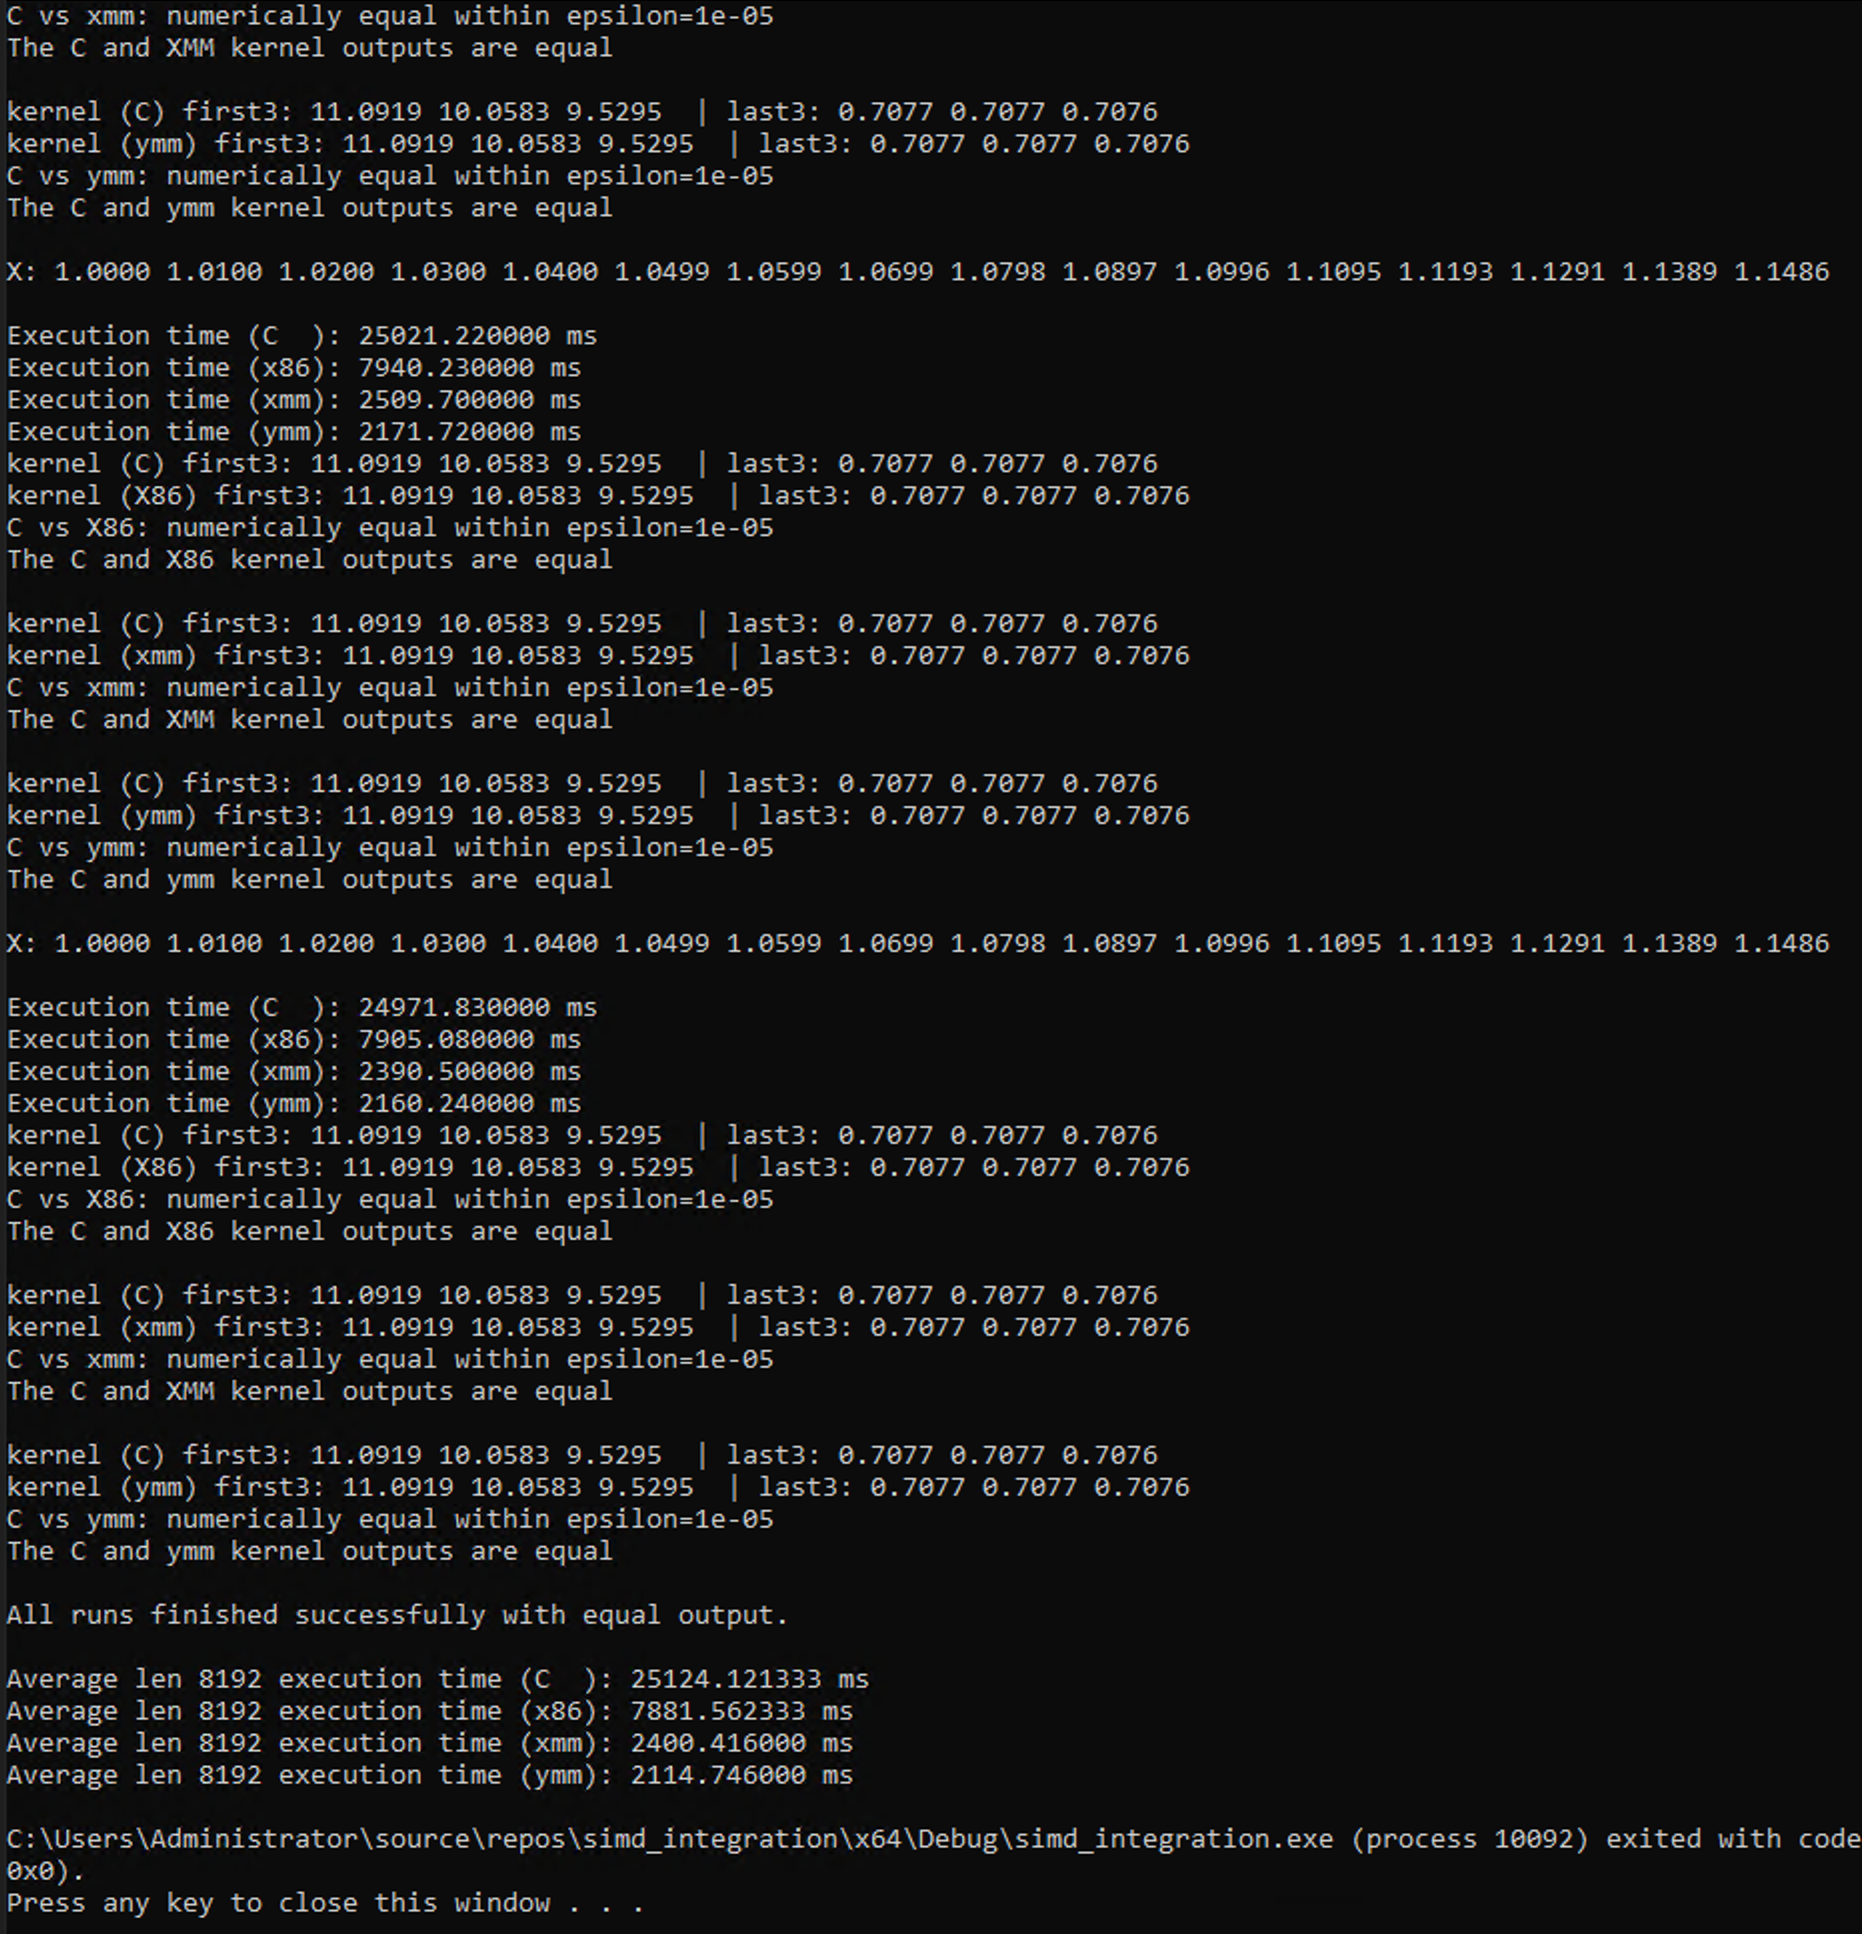
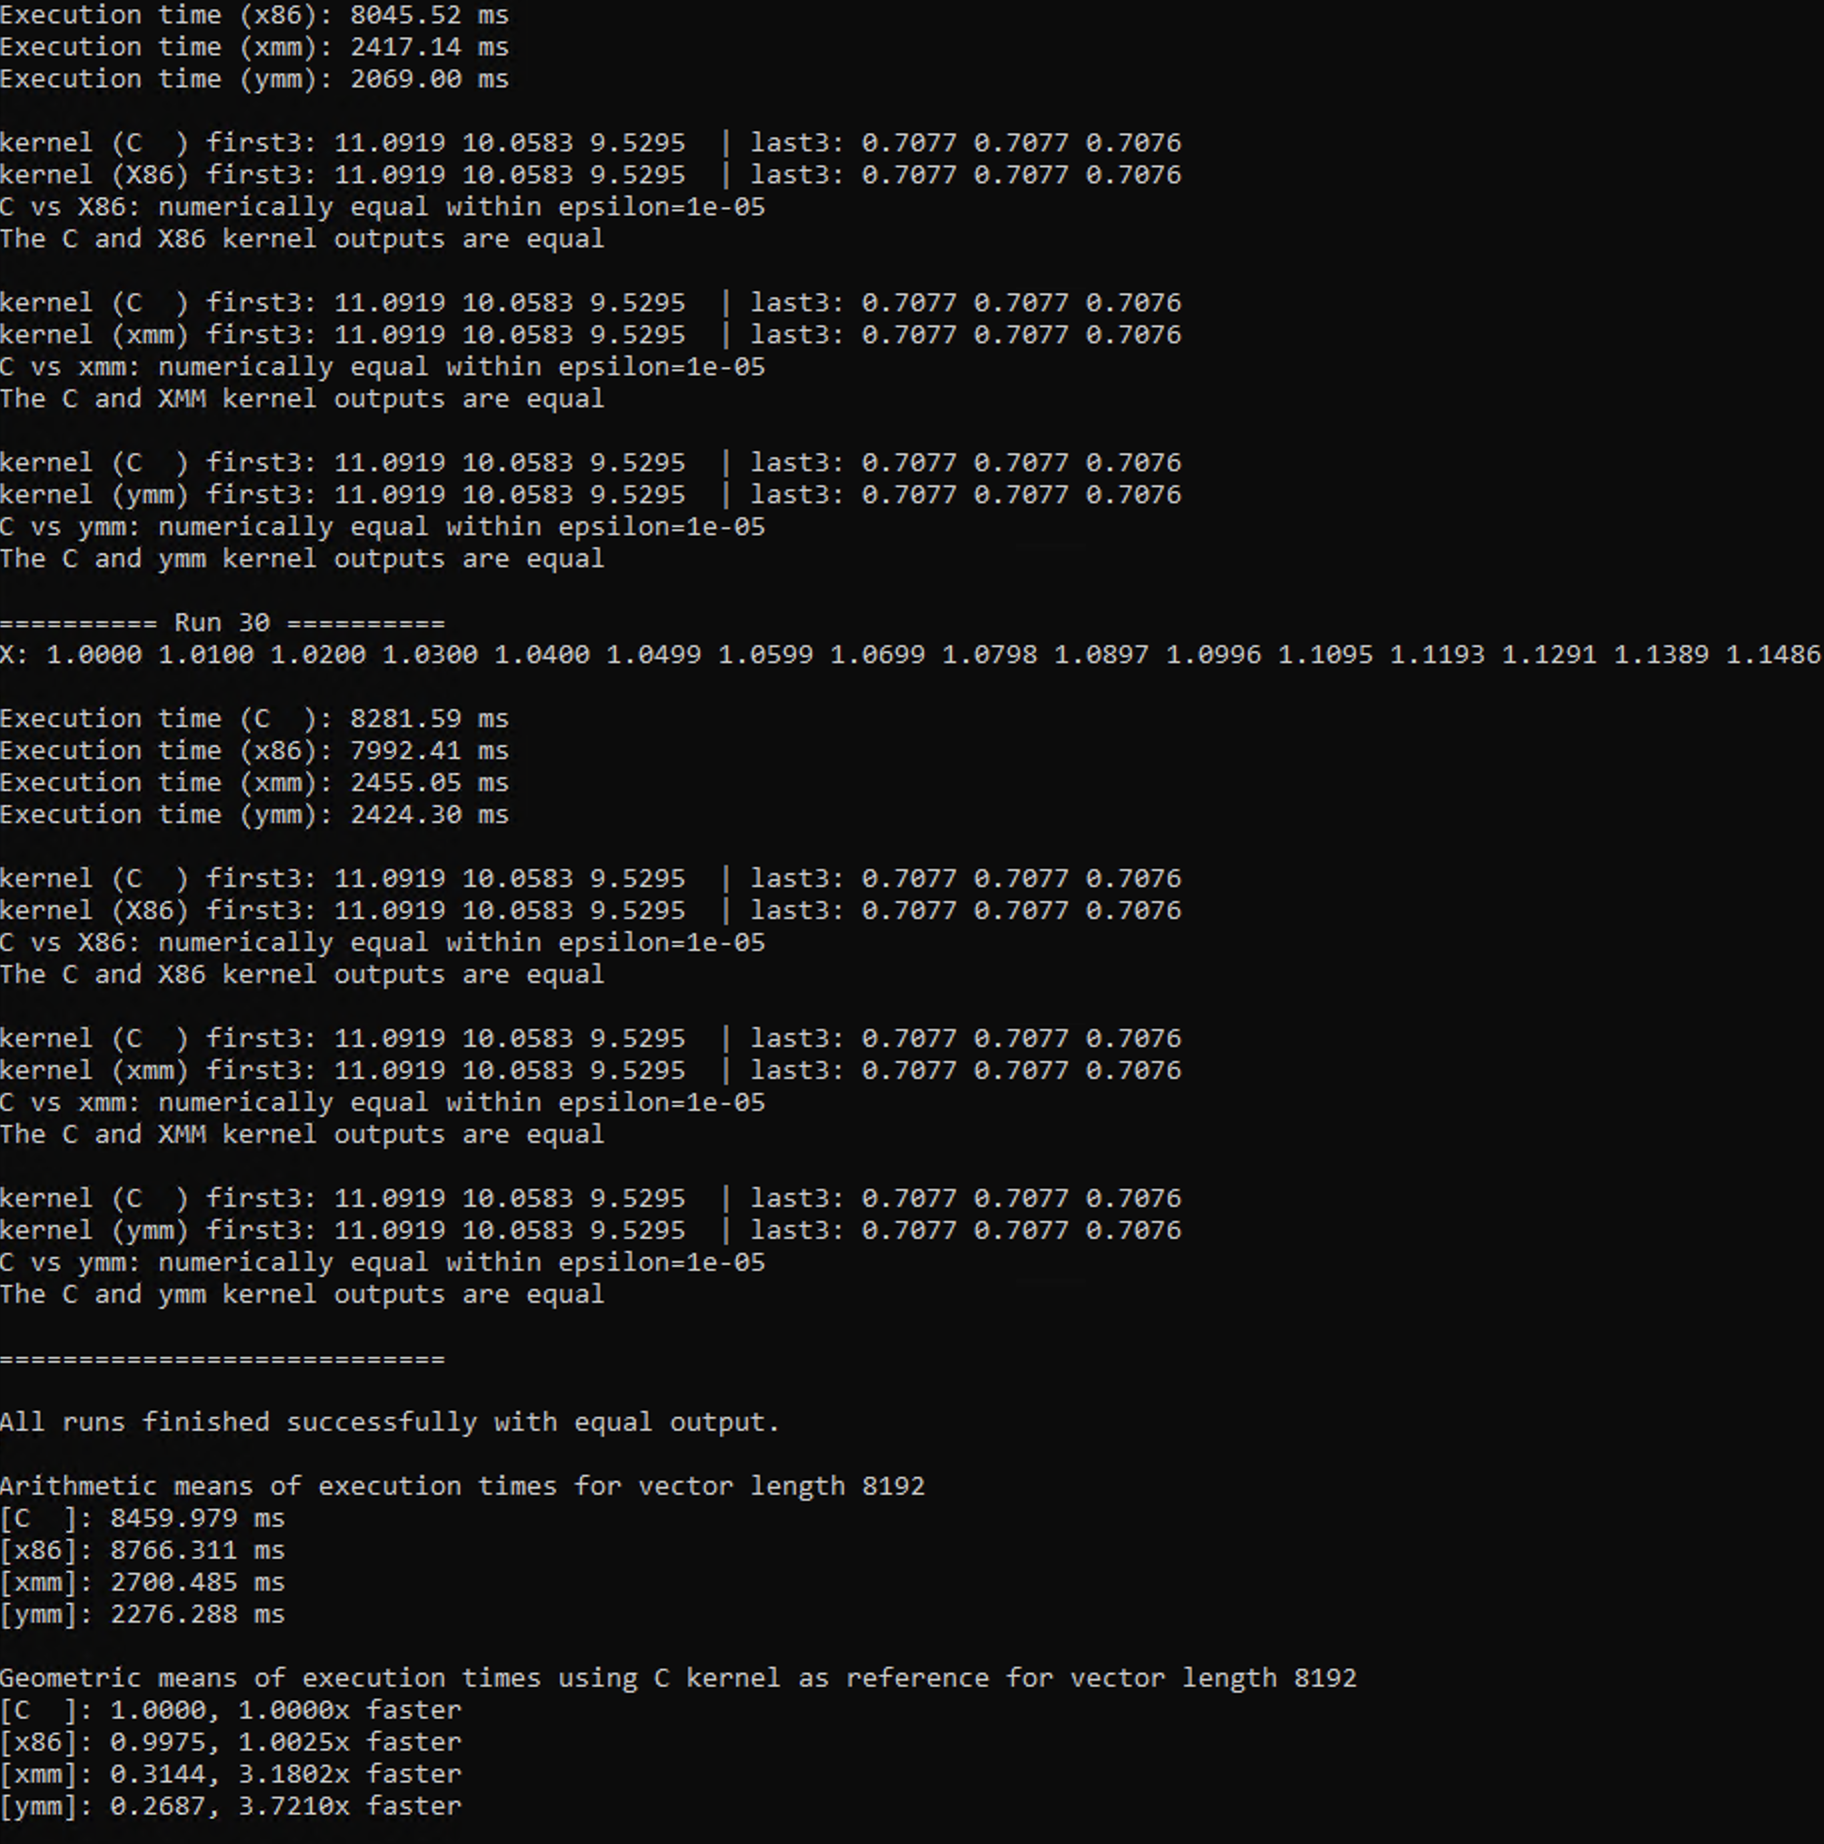
fix

diff --git a/README.md b/README.md
@@ -21,8 +21,8 @@ Each kernel is to perform a `matrix vector product`.matrix-vector product `y = A
      ├── README.md
      ├── simd_integration
      │   ├── asmfunc1.asm          (x86)
-     │   ├── asmfunc3.asm          (SIMD XMM)
-     │   ├── asmfunc4.asm          (SIMD YMM)
+     │   ├── asmfunc3.asm          (SIMD YMM)
+     │   ├── asmfunc2.asm          (SIMD XMM)
      │   ├── main.c (main program)
      │   ├── simd_integration.vcxproj
      │   └── simd_integration.vcxproj.filters
@@ -86,12 +86,23 @@ Matrix sizes: n ∈ {1003,2^10,2^13,2^14} RUN in 30 times
 #define RUNS 10
 ```
 
-| n            |      C (ms) |   x86 (ms) |   XMM (ms) |  YMM (ms) | x86 Speedup VS C | XMM Speedup VS C | YMM Speedup VS C |
-| ------------ | ----------: | ---------: | ---------: | --------: | ---------------: | ---------------: | ---------------: |
-| 2^10 (1024)  |     430.762 |    156.672 |     30.243 |    30.947 |            2.75× |           14.24× |           13.92× |
-| 2^13 (8192)  |  25,124.121 |  7,881.562 |  2,400.416 | 2,114.746 |            3.19× |           10.47× |           11.88× |
-| 2^14 (16384) | 100,416.107 | 31,844.125 | 10,230.686 | 8,981.545 |            3.15× |            9.82× |           11.18× |
-| 1003         |     450.037 |    133.948 |     36.630 |    26.653 |            3.36× |           12.29× |           16.88× |
+## Arithmetic means（ms）
+
+| n            |     C (ms) |   x86 (ms) |   XMM (ms) |  YMM (ms) | x86 Speedup VS C | XMM Speedup VS C | YMM Speedup VS C |
+| ------------ | ---------: | ---------: | ---------: | --------: | ---------------: | ---------------: | ---------------: |
+| 1003         |    483.602 |    145.498 |     21.402 |    23.562 |            3.32× |           22.60× |           20.52× |
+| 2^10 (1024)  |    143.422 |    130.012 |     33.722 |    22.250 |            1.10× |            4.25× |            6.45× |
+| 2^13 (8192)  |  8,456.979 |  7,992.419 |  2,766.485 | 2,726.288 |            1.06× |            3.06× |            3.10× |
+| 2^14 (16384) | 32,720.869 | 31,801.649 | 10,484.669 | 9,095.964 |            1.03× |            3.12× |            3.60× |
+
+## Geometric means（ms）
+
+| n            | C (factor) | x86 (factor) | XMM (factor) | YMM (factor) | x86 Speedup VS C | XMM Speedup VS C | YMM Speedup VS C |
+| ------------ | ---------: | -----------: | -----------: | -----------: | ---------------: | ---------------: | ---------------: |
+| 1003         |     1.0000 |       0.2947 |       0.0730 |       0.0502 |          3.3929× |         13.7018× |         19.9363× |
+| 2^10 (1024)  |     1.0000 |       0.8895 |       0.2128 |       0.1390 |          1.1242× |          4.6992× |          7.1942× |
+| 2^13 (8192)  |     1.0000 |       0.9975 |       0.3144 |       0.2687 |          1.0025× |          3.1802× |          3.7210× |
+| 2^14 (16384) |     1.0000 |       0.9742 |       0.3197 |       0.2780 |          1.0265× |          3.1295× |          3.5973× |
 
 - 2^10
 
